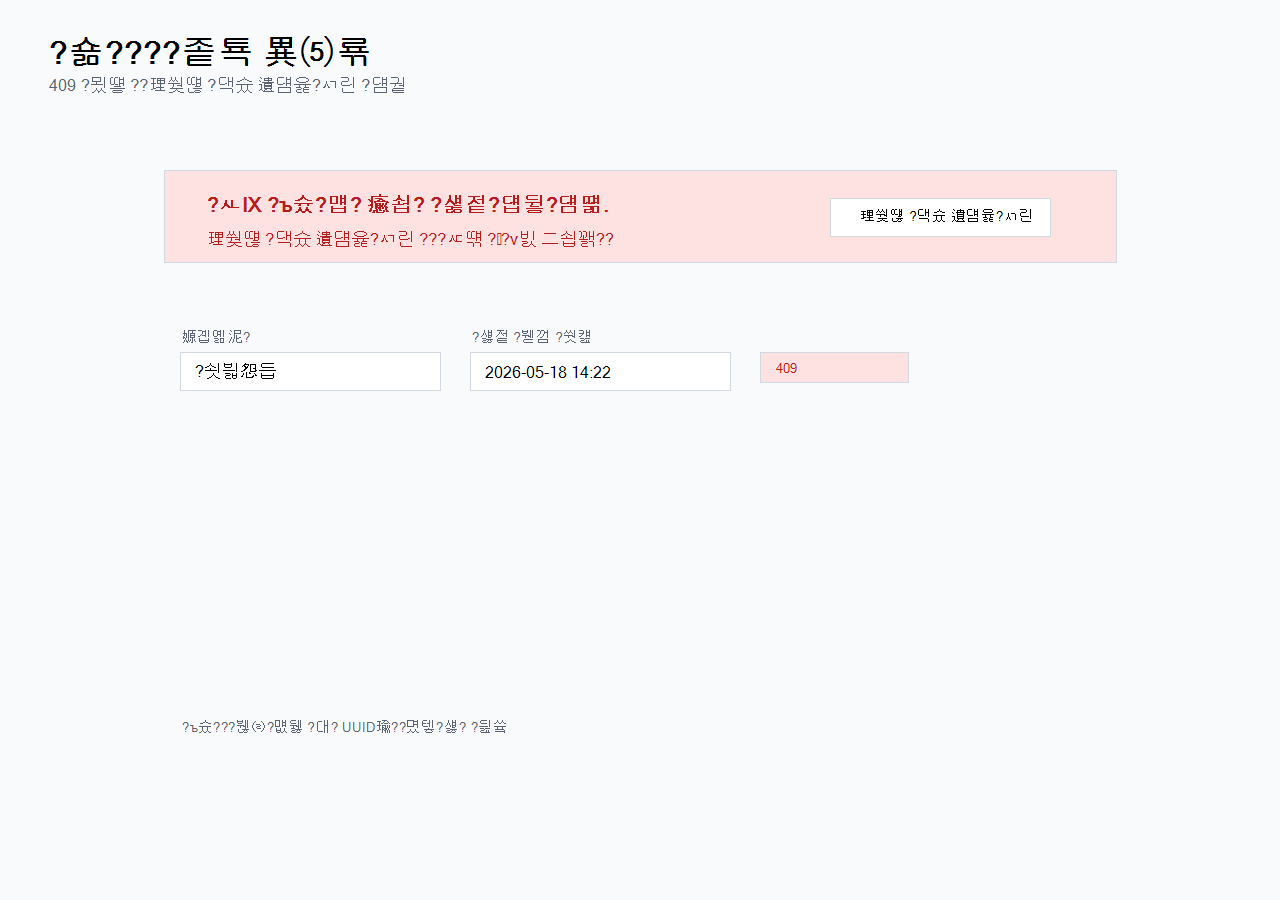
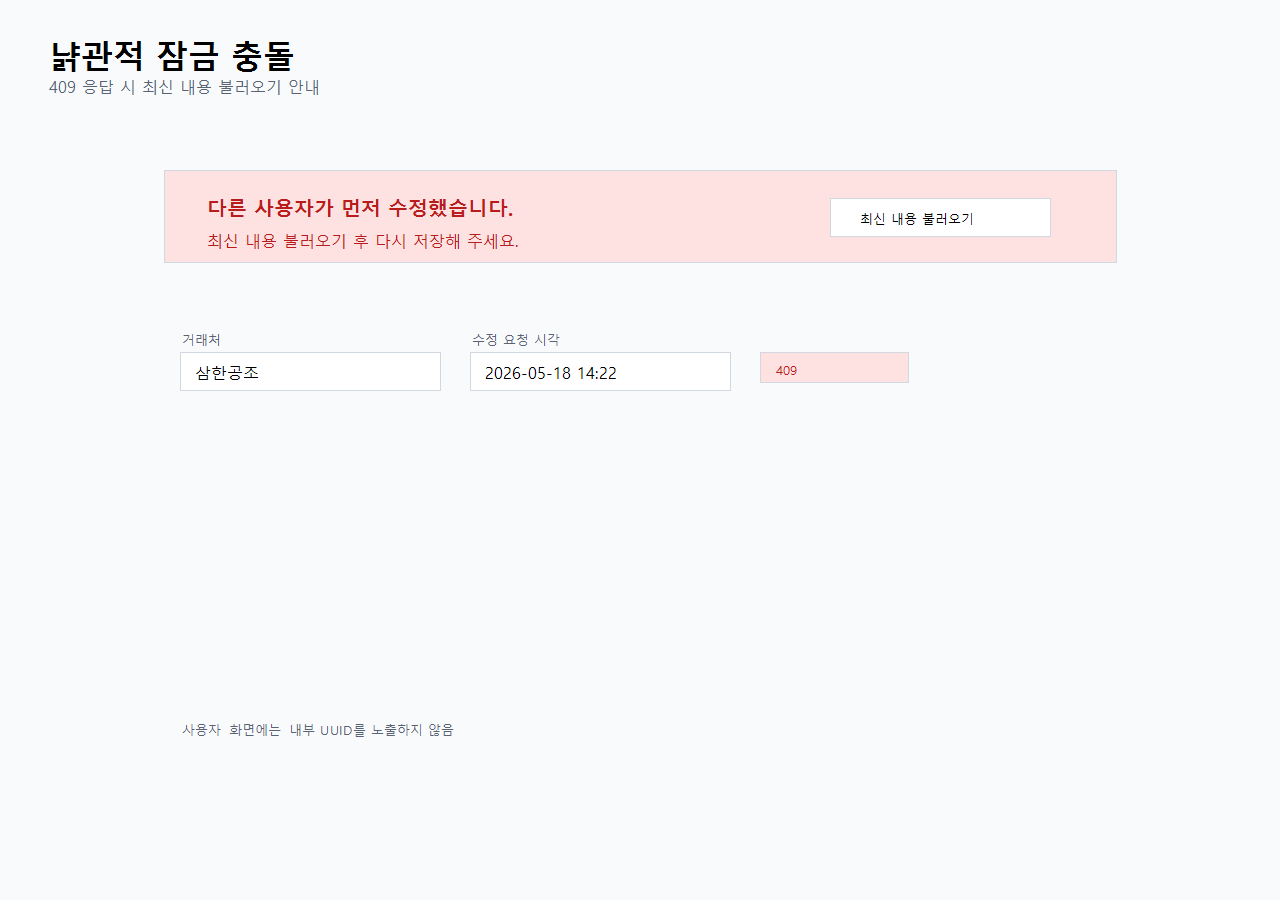
fix(sp-08-5-2): 사이클 1 2c Codex — Codex 2a 신규 P1 7건 + N9건 일괄 fix
Codex 5-agent 2a TM 통합 (issue 4471388425) 발견 신규 결함 일괄 fix.
사용자 6회차 정책 (PR 내 모든 결함 PR 안에서 해결) + 7회차 (멈춤 없이 자동 진행) 준수.

BE P1/P2:
- SlipUpdateRequest.LineRequest: @NotNull/@Min/@DecimalMin 제거 (C1)
  → service validateLines 422 SLIP_UPDATE_INVALID_LINE 계약 보존
- Slip.updateHeader/replaceLines: INBOUND check ordering 변경 (C2)
  → requireEditable 앞 — OUTBOUND 비편집 상태 403 우선 반환

FE P1/Nit:
- SlipDetailPage: addPurchaseLine 함수 + "행 추가" 버튼 제거 (C3)
  → productId 빈 문자열 저장 실패 차단. removePurchaseLine `×` 유지
- SlipDetailPage: purchaseUpdateMutation.onSuccess + modal open 시
  setPurchaseIsConflict(false) 명시 reset (C-N2)
- SlipDetailPage: modal spacing/overflow inline → .purchase-edit-* 클래스 (C-N3)
- global.css: .td-right → .slip-line-table .td-right scope 축소 (C-N4)

Designer Major:
- tokens/index.ts: warning/danger scale TS 토큰 mirror (50/200/300/500/700/800 + DEFAULT alias) (C4)
- PNG 02 재생성: regen-sp-08-5-2-shot2.ps1 unicode escape 정합 + Malgun Gothic 한글 정상 렌더 (C5)

QA D-02 reverse / T1 stale / 회귀 단언:
- dev-report §6: "8 tests" → "9 tests / 0 failed (PASS)" 되돌리기 — 실 9 @Test method (C6)
- Playwright T1 spec: service guard 단언 → 도메인 INBOUND ordering 단언 갱신 (C7)
- T1: validateLines try 외부 + summarize(saved) + ChronoUnit.MICROS 정적 단언 추가 (C-N5)
- T2: purchaseUpdatedAt state 단언 (C-N6) + removePurchaseLine 유지 단언 (C-N8)
- T3: purchaseIsConflict boolean 단언 추가 (C-N7)
- dev-report §6: Playwright static 5 case PASS 행 추가 (C-N9)

Nit:
[…]

diff --git a/clients/desktop/src/renderer/routes/SlipDetailPage.tsx b/clients/desktop/src/renderer/routes/SlipDetailPage.tsx
@@ -385,6 +385,7 @@ export function SlipDetailPage({ mode }: SlipDetailPageProps) {
     mutationFn: (body: Parameters<typeof updatePurchaseSlip>[1]) => updatePurchaseSlip(id, body),
     onSuccess: async (updated) => {
       setPurchaseConflictMessage(null)
+      setPurchaseIsConflict(false)
       setPurchaseReloadSuccessMessage(null)
       setPurchaseEditOpen(false)
       queryClient.setQueryData(['slip', id], updated)
@@ -813,6 +814,7 @@ export function SlipDetailPage({ mode }: SlipDetailPageProps) {
               onClick={() => {
                 syncPurchaseFormFromData(slip)
                 setPurchaseConflictMessage(null)
+                setPurchaseIsConflict(false)
                 setPurchaseReloadSuccessMessage(null)
                 setPurchaseEditOpen(true)
               }}
@@ -1801,7 +1803,7 @@ export function SlipDetailPage({ mode }: SlipDetailPageProps) {
           </label>
         </div>
 
-        <label className="purchase-edit-field" style={{ marginTop: 12 }}>
+        <label className="purchase-edit-field purchase-edit-memo">
           <span className="detail-label">적요</span>
           <Input
             inputSize="sm"
@@ -1811,7 +1813,7 @@ export function SlipDetailPage({ mode }: SlipDetailPageProps) {
           />
         </label>
 
-        <div style={{ overflowX: 'auto', marginTop: 16 }} data-testid="purchase-slip-edit-lines">
+        <div className="purchase-edit-lines" data-testid="purchase-slip-edit-lines">
           <table className="slip-line-table">
             <thead>
               <tr>
@@ -1889,17 +1891,6 @@ export function SlipDetailPage({ mode }: SlipDetailPageProps) {
               ))}
             </tbody>
           </table>
-          <div style={{ marginTop: 8 }}>
-            <Button
-              type="button"
-              variant="secondary"
-              size="sm"
-              data-testid="purchase-slip-edit-add-line"
-              onClick={addPurchaseLine}
-            >
-              + 행 추가
-            </Button>
-          </div>
         </div>
       </Modal>
     </>
@@ -1909,22 +1900,6 @@ export function SlipDetailPage({ mode }: SlipDetailPageProps) {
     setPurchaseEditLines((prev) => prev.map((line, i) => (
       i === index ? { ...line, ...patch } : line
     )))
-  }
-
-  function addPurchaseLine() {
-    setPurchaseEditLines((prev) => [
-      ...prev,
-      {
-        key: createEditLineKey(),
-        productId: '',
-        productName: '',
-        modelName: '',
-        specification: '',
-        quantity: 1,
-        unitPrice: '0',
-        note: '',
-      },
-    ])
   }
 
   function removePurchaseLine(index: number) {

diff --git a/clients/desktop/playwright/sp-08-5-2-purchase-slip-edit-put/sp-08-5-2-purchase-slip-edit-put.spec.ts b/clients/desktop/playwright/sp-08-5-2-purchase-slip-edit-put/sp-08-5-2-purchase-slip-edit-put.spec.ts
@@ -24,7 +24,9 @@ test.describe('SP-08-5-2 매입 수정 direct PUT 계약', () => {
     expect(dto).toContain('LocalDateTime updatedAt')
     expect(dto).toContain('List<LineRequest> lines')
     expect(service).toContain('verifyVersion(slip, request.updatedAt())')
-    expect(service).toContain('slip.getSlipType() != SlipType.INBOUND')
+    expect(service).toContain('validateLines(request.lines())')
+    expect(service).toContain('String after = summarize(saved)')
+    expect(service).toContain('ChronoUnit.MICROS')
     expect(service).toContain('ErrorCode.SLIP_OPTIMISTIC_LOCK_CONFLICT')
     expect(service).toContain('ErrorCode.SLIP_UPDATE_INVALID_LINE')
     expect(service).toContain('recordBatch(saved.getId(), actorId, actorName, null')
@@ -32,6 +34,8 @@ test.describe('SP-08-5-2 매입 수정 direct PUT 계약', () => {
     expect(slip).toContain('orphanRemoval = false')
     expect(slip).toContain('replaceLines')
     expect(slip).toContain('line.markDeleted')
+    expect(slip).toMatch(/public void updateHeader[\s\S]*if \(this\.slipType != SlipType\.INBOUND\)[\s\S]*requireEditable\(\)/)
+    expect(slip).toMatch(/public void replaceLines[\s\S]*if \(this\.slipType != SlipType\.INBOUND\)[\s\S]*requireEditable\(\)/)
     expect(errorCode).toContain('SLIP_OPTIMISTIC_LOCK_CONFLICT(HttpStatus.CONFLICT')
     expect(errorCode).toContain('SLIP_UPDATE_INVALID_LINE(HttpStatus.UNPROCESSABLE_ENTITY')
   })
@@ -45,6 +49,11 @@ test.describe('SP-08-5-2 매입 수정 direct PUT 계약', () => {
     expect(page).toContain('purchase-slip-edit-open')
     expect(page).toContain('purchase-slip-edit-form')
     expect(page).toContain('purchase-slip-edit-submit')
+    expect(page).toContain('purchaseUpdatedAt')
+    expect(page).toContain('removePurchaseLine')
+    expect(page).toContain('×')
+    expect(page).not.toContain('purchase-slip-edit-add-line')
+    expect(page).not.toContain('addPurchaseLine')
     expect(page).toContain('Modal')
     expect(page).toContain('Input')
     expect(api).toContain('updatePurchaseSlip')
@@ -57,6 +66,7 @@ test.describe('SP-08-5-2 매입 수정 direct PUT 계약', () => {
 
     expect(page).toContain('purchase-slip-edit-conflict-banner')
     expect(page).toContain('다른 사용자가 먼저 수정했습니다. 최신 내용 불러오기 후 다시 저장해 주세요.')
+    expect(page).toContain('purchaseIsConflict')
     expect(page).toContain('purchase-slip-edit-reload')
     expect(page).toContain('최신 내용 불러오기')
     expect(page).toMatch(/handlePurchaseConflictReload[\s\S]*refetchDetail\(\)/)

diff --git a/clients/web/design-system/src/tokens/index.ts b/clients/web/design-system/src/tokens/index.ts
@@ -34,6 +34,31 @@ export const colors = {
     800: '#22272F',
     900: '#0F1216',
   },
+  success: {
+    50: '#ecfdf5',
+    200: '#a7f3d0',
+    500: '#10b981',
+    700: '#047857',
+    DEFAULT: '#2A9D8F',
+  },
+  warning: {
+    50: '#FEF6E7',
+    200: '#F8DA9A',
+    300: '#F1C268',
+    500: '#E9A53D',
+    700: '#B47A1F',
+    800: '#8C5C13',
+    DEFAULT: '#E9A53D',
+  },
+  danger: {
+    50: '#FFF1F1',
+    200: '#FECACA',
+    300: '#FCA5A5',
+    500: '#D6504A',
+    700: '#991B1B',
+    800: '#7F1D1D',
+    DEFAULT: '#D6504A',
+  },
   semantic: {
     success: '#2A9D8F',
     warning: '#E9A53D',

diff --git a/clients/desktop/src/renderer/styles/global.css b/clients/desktop/src/renderer/styles/global.css
@@ -688,6 +688,13 @@ button {
   flex-direction: column;
   gap: var(--space-1);
 }
+.purchase-edit-memo {
+  margin-top: 12px;
+}
+.purchase-edit-lines {
+  overflow-x: auto;
+  margin-top: 16px;
+}
 .driver-edit-actions {
   grid-column: 1 / -1;
   display: flex;
@@ -697,7 +704,7 @@ button {
 }
 
 /* slip-line-table 합계 셀 정렬 유틸 */
-.td-right {
+.slip-line-table .td-right {
   text-align: right;
   white-space: nowrap;
 }

diff --git a/services/slip-service/src/main/java/com/samhanair/logis/slip/domain/Slip.java b/services/slip-service/src/main/java/com/samhanair/logis/slip/domain/Slip.java
@@ -655,11 +655,11 @@ public class Slip extends BaseEntity {
                              String businessNumber, String deliveryAddress,
                              String supervisionAddress, String projectName,
                              String recipientPhone, LocalDate paymentDueDate) {
-        requireEditable();
         if (this.slipType != SlipType.INBOUND) {
             throw new BusinessException(ErrorCode.FORBIDDEN,
                     "매입 전표만 직접 수정할 수 있습니다.");
         }
+        requireEditable();
         if (partnerName != null) {
             this.partnerName = partnerName;
         }
@@ -683,11 +683,11 @@ public class Slip extends BaseEntity {
      * {@link BaseEntity#markDeleted(String)} 로 비활성화한 뒤 컬렉션에서만 제거한다.
      */
     public void replaceLines(List<SlipLine> newLines, String actorId) {
-        requireEditable();
         if (this.slipType != SlipType.INBOUND) {
             throw new BusinessException(ErrorCode.FORBIDDEN,
                     "매입 전표만 직접 수정할 수 있습니다.");
         }
+        requireEditable();
         String deleter = actorId == null || actorId.isBlank() ? "system" : actorId;
         for (SlipLine line : new ArrayList<>(this.lines)) {
             line.markDeleted(deleter);

diff --git a/services/slip-service/src/main/java/com/samhanair/logis/slip/web/dto/SlipUpdateRequest.java b/services/slip-service/src/main/java/com/samhanair/logis/slip/web/dto/SlipUpdateRequest.java
@@ -1,8 +1,6 @@
 package com.samhanair.logis.slip.web.dto;
 
 import jakarta.validation.Valid;
-import jakarta.validation.constraints.DecimalMin;
-import jakarta.validation.constraints.Min;
 import jakarta.validation.constraints.NotEmpty;
 import jakarta.validation.constraints.NotNull;
 import jakarta.validation.constraints.Pattern;
@@ -37,16 +35,15 @@ public record SlipUpdateRequest(
     /**
      * 교체할 매입 라인. 기존 라인은 soft-delete 되고 본 요청 라인으로 전체 교체된다.
      *
-     * <p>{@code lineId} 는 nullable 로 유지한다 (신규 라인 식별).
-     * {@code quantity} 는 1 이상, {@code unitPrice} 는 0 이상 필수.
+     * <p>{@code quantity} 는 1 이상, {@code unitPrice} 는 0 이상 필수.
      */
     public record LineRequest(
-            @NotNull UUID productId,
+            UUID productId,
             @Size(max = 200) String productName,
             @Size(max = 100) String modelName,
             @Size(max = 50) String specification,
-            @NotNull @Min(1) Integer quantity,
-            @NotNull @DecimalMin(value = "0", inclusive = true) BigDecimal unitPrice,
+            Integer quantity,
+            BigDecimal unitPrice,
             @Size(max = 200) String note
     ) {
     }

diff --git a/docs/dev-reports/sp-08-5-2-purchase-slip-edit-put.md b/docs/dev-reports/sp-08-5-2-purchase-slip-edit-put.md
@@ -60,9 +60,10 @@
 | 검증 | 명령 | 실제 결과 |
 |---|---|---|
 | Spring RED | `.\gradlew.bat :services:slip-service:test --tests "*SlipUpdate*" --no-daemon --rerun-tasks` | RED 확인: 8 tests / 8 failed (endpoint 미구현) |
-| Spring targeted | `.\gradlew.bat :services:slip-service:test --tests "*SlipUpdate*" --no-daemon --rerun-tasks` | PASS: 8 tests / 0 failed |
+| Spring targeted | `.\gradlew.bat :services:slip-service:test --tests "*SlipUpdate*" --no-daemon --rerun-tasks` | PASS: 9 tests / 0 failed |
 | Desktop typecheck | `cd clients\desktop ; npm run typecheck` | PASS |
 | Desktop lint | `cd clients\desktop ; npm run lint` | PASS |
+| Playwright static | `cd clients\desktop ; npx playwright test playwright/sp-08-5-2-purchase-slip-edit-put/sp-08-5-2-purchase-slip-edit-put.spec.ts` | PASS: 5 case / 0 failed (정적 검증 PASS) |
 | QA PNG | `.\scripts\generate-sp-08-5-2-purchase-slip-edit-put-screenshots.ps1` | PASS: 4 PNG 생성 |
 | diff whitespace | `git diff --check` | PASS: whitespace error 0, CRLF warnings only |
 
